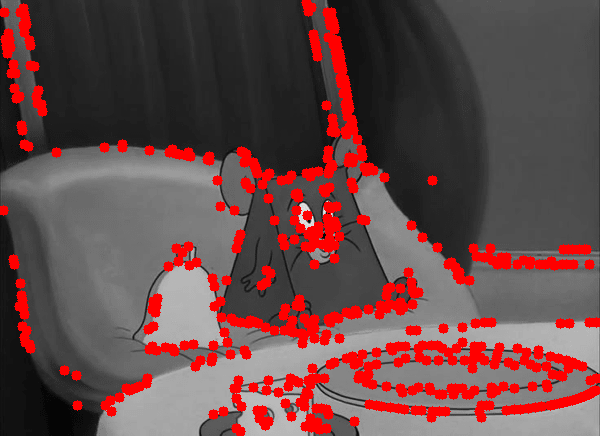
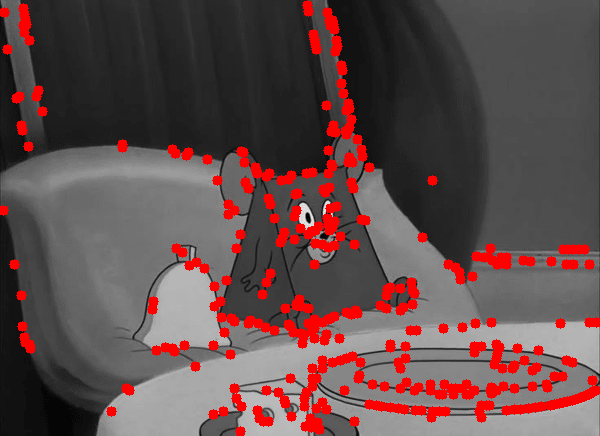
fix part1

diff --git a/HW1/hw1_material/hw1_material/part1/DoG.py b/HW1/hw1_material/hw1_material/part1/DoG.py
@@ -14,16 +14,18 @@ class Difference_of_Gaussian(object):
         # Step 1: Filter images with different sigma values (5 images per octave, 2 octave in total)
         # - Function: cv2.GaussianBlur (kernel = (0, 0), sigma = self.sigma**___)
         gaussian_images = []
+        image_copy = image.copy()
 
         for octave in range(self.num_octaves):
             octave_images = []
-            for i in range(0, self.num_guassian_images_per_octave):
-                blurred = cv2.GaussianBlur(image, ksize=(0,0), sigmaX=self.sigma ** (i + 1), sigmaY = self.sigma ** (i + 1))
+            octave_images.append(image_copy)
+            for i in range(1, self.num_guassian_images_per_octave):
+                blurred = cv2.GaussianBlur(image_copy, ksize=(0,0), sigmaX=self.sigma ** i, sigmaY = self.sigma ** i)
                 octave_images.append(blurred)
             
             gaussian_images.append(octave_images)
             last_img = octave_images[-1]
-            image = cv2.resize(last_img, (last_img.shape[1] // 2, last_img.shape[0] // 2), interpolation=cv2.INTER_NEAREST)
+            image_copy = cv2.resize(last_img, dsize=None, fx=0.5, fy=0.5, interpolation=cv2.INTER_NEAREST)
 
         # Step 2: Subtract 2 neighbor images to get DoG images (4 images per octave, 2 octave in total)
         # - Function: cv2.subtract(second_image, first_image)
@@ -34,6 +36,14 @@ class Difference_of_Gaussian(object):
             for i in range(self.num_DoG_images_per_octave):
                 subtract = cv2.subtract(gaussian_images[octave][i + 1], gaussian_images[octave][i])
                 dog_images_in_octaves.append(subtract)
+
+                # Normalize and convert to uint8 for correct saving
+                # subtract = cv2.normalize(subtract, None, 0, 255, cv2.NORM_MINMAX)
+                # subtract = np.uint8(subtract)
+
+                # file_name = f"DoG{octave+1}-{i+1}.png"
+                # path = f"./image/{file_name}"
+                # cv2.imwrite(path, subtract)
 
 
             dog_images.append(dog_images_in_octaves)

diff --git a/HW1/hw1_material/hw1_material/part1/main.py b/HW1/hw1_material/hw1_material/part1/main.py
@@ -12,8 +12,8 @@ def plot_keypoints(img_gray, keypoints, save_path):
 
 def main():
     parser = argparse.ArgumentParser(description='main function of Difference of Gaussian')
-    parser.add_argument('--threshold', default=5.0, type=float, help='threshold value for feature selection')
-    parser.add_argument('--image_path', default='./testdata/1.png', help='path to input image')
+    parser.add_argument('--threshold', default=3.0, type=float, help='threshold value for feature selection')
+    parser.add_argument('--image_path', default='./testdata/2.png', help='path to input image')
     args = parser.parse_args()
 
     print('Processing %s ...'%args.image_path)
@@ -24,7 +24,8 @@ def main():
     DoG = Difference_of_Gaussian(args.threshold)
     keypoints = DoG.get_keypoints(img)
 
-    plot_keypoints(img, keypoints, save_path='./output')
+
+    plot_keypoints(img, keypoints, save_path='./image/2_3.png')
 
 
 if __name__ == '__main__':
